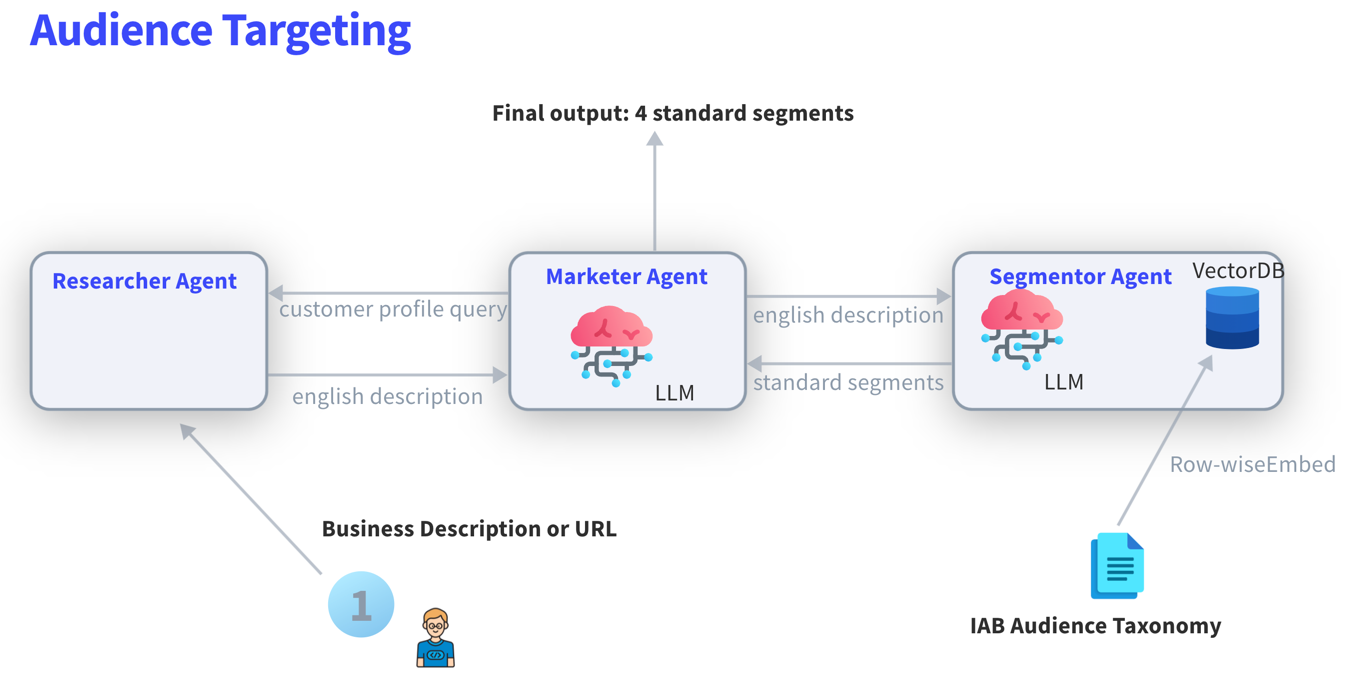
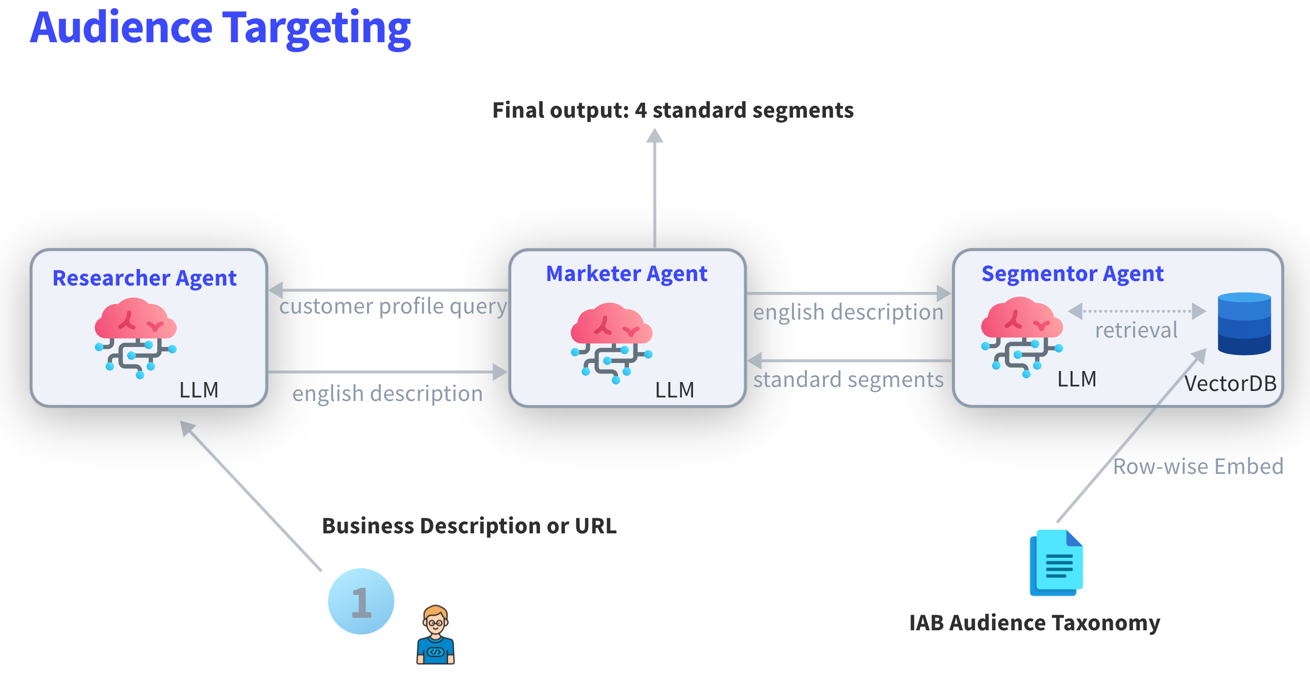
tweaks to targeting docs

diff --git a/docs/demos/targeting/audience-targeting.md b/docs/demos/targeting/audience-targeting.md
@@ -35,8 +35,8 @@ or provides the URL of the business's website.
 The `Marketer` Agent sends
 customer profile queries to the `Researcher`, who answers in plain English, and
 the Marketer takes this description and sends it to the Segmentor (who has
-access to IAB Audience Segments), who maps it to standardized segments. The task
-is done when the Marketer finds 4 standardized segments. 
+access to IAB Audience Segments, embedded into a vector-database), 
+who maps it to standardized segments. The task is done when the Marketer finds 4 standardized segments. 
 The agents are depicted in the diagram below:
 
 ![targeting.png](targeting.png)
